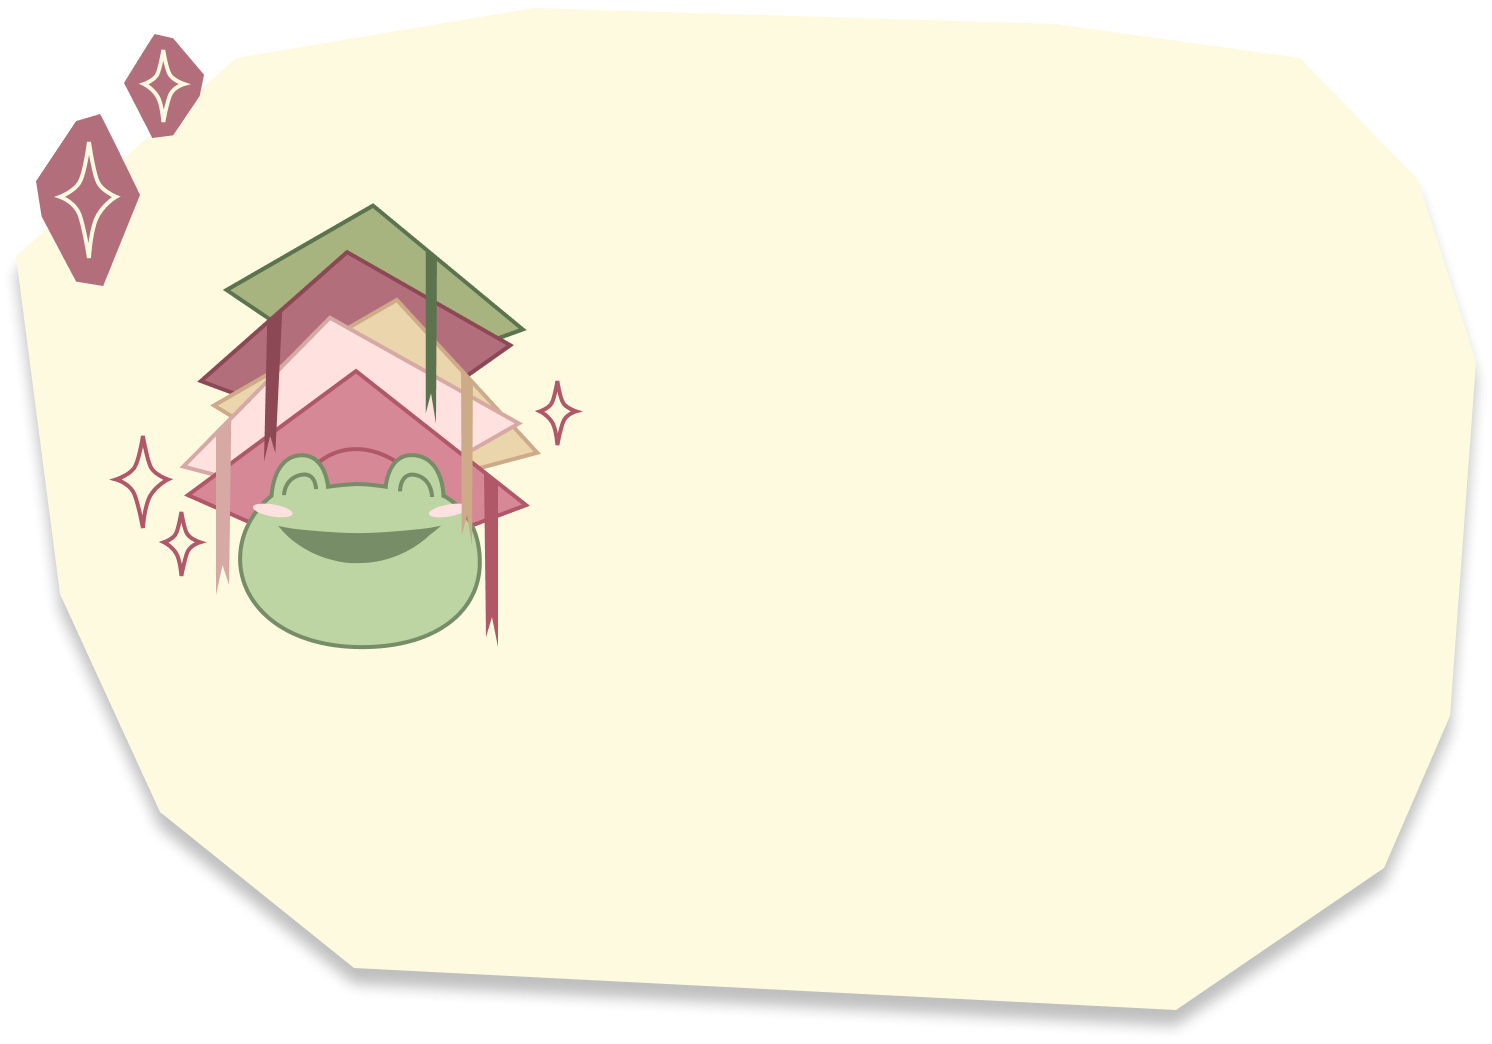
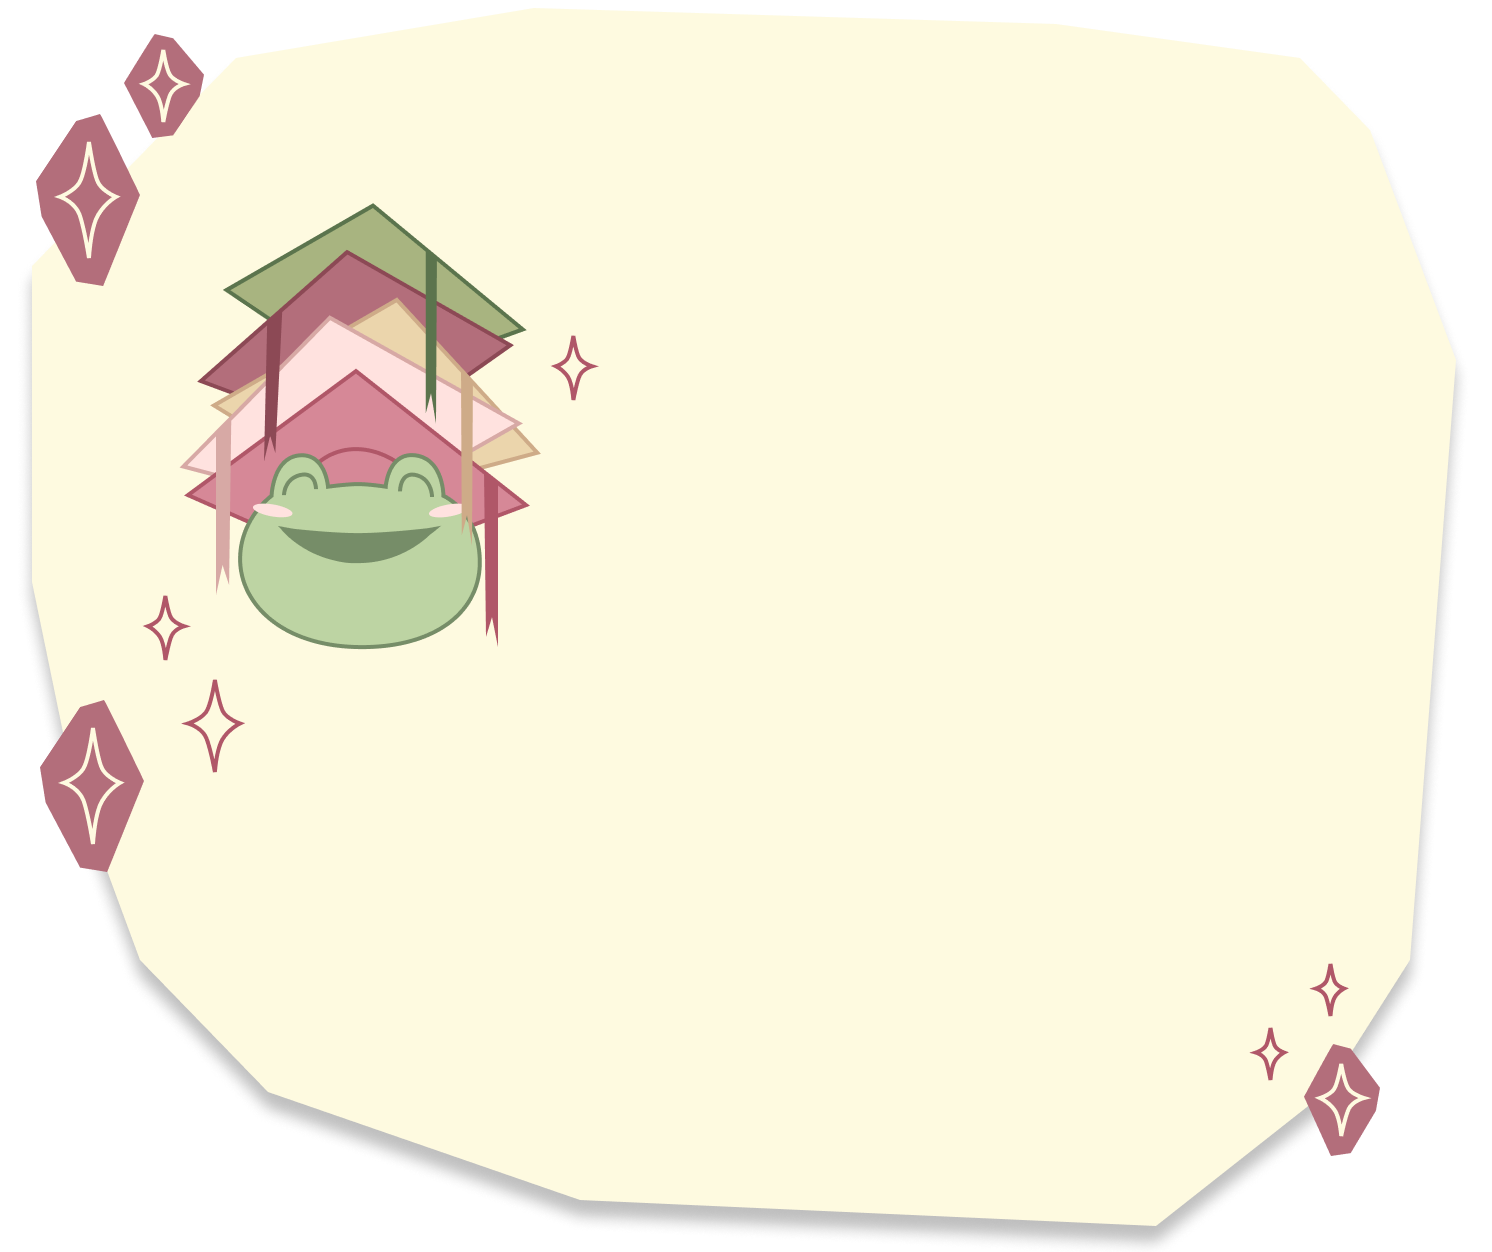
fix version mobile

diff --git a/src/app/_components/Formation.jsx b/src/app/_components/Formation.jsx
@@ -83,12 +83,12 @@ export function Formation() {
 
                  <div className='flex flex-col justify-center items-center h-280 -mt-170 '>
 
-                    <div className='sticky flex z-0 items-end justify-end top-40 md:top-45 mb-5 bg-[url(/media/formation-frog/form6xs2.png)] lg:bg-[url(/media/formation-frog/form6xl.png)] bg-center bg-no-repeat bg-contain p-15 sm:mr-4 sm:ml-4'>
-                        <div className='text-center flex flex-col justify-center items-center ml-30 lg:ml-50'>
-                            <h2 className='text-lg text-center text-[#763c48]'>À l'écoute d'opportunités dans le développement Front-End !</h2>
-                            <h3>Retrouvez mon CV juste ici :</h3>
+                    <div className='sticky flex z-0 items-end justify-end top-40 md:top-45 mb-5 bg-[url(/media/formation-frog/form6xs2.png)] lg:bg-[url(/media/formation-frog/form6xl.png)] bg-center bg-no-repeat bg-contain p-6 md:p-15'>
+                        <div className='text-center flex flex-col justify-center items-center ml-26 lg:ml-50'>
+                            <h2 className=' text-sm md:text-lg text-center text-[#763c48]'>À l'écoute d'opportunités dans le développement Front-End !</h2>
+                            <h3 className='text-xs'>Retrouvez mon CV juste ici :</h3>
                             <Link href='/media/cv/CV.png' target='_blank' >
-                                <svg viewBox="0 0 24 24" fill="none" xmlns="http://www.w3.org/2000/svg" className='w-20'>
+                                <svg viewBox="0 0 24 24" fill="none" xmlns="http://www.w3.org/2000/svg" className='w-15 md:w-20'>
                                     <g id="SVGRepo_bgCarrier" strokeWidth="0"></g>
                                     <g id="SVGRepo_tracerCarrier" strokeLinecap="round" strokeLinejoin="round"></g>
                                     <g id="SVGRepo_iconCarrier"> 

diff --git a/src/app/_components/Domaines.jsx b/src/app/_components/Domaines.jsx
@@ -12,9 +12,9 @@ export default function Domaine() {
                 <h2 className='m-10 text-3xl md:text-5xl'>Mes domaines de prédilection</h2>
             </div>
 
-            <div className='flex flex-col md:flex-row text-[#B36E7B] p-5 md:pr-60 md:pl-60'>
+            <div className='flex flex-col md:flex-row text-[#B36E7B] p-5 pr-10 pl-10 lg:pr-60 lg:pl-60'>
 
-                <div className='flip-domaine relative z-6 m-4'>
+                <div className='flip-domaine relative z-6 m-2 md:m-4'>
                     <div className='flip-domaine-inner'>
                         <div className='front-doodle bento-beige flex flex-col justify-center items-center'>
                             <Image src="/media/domaines/dev.png" className='m-3' height={80} alt='illu dev'/>
@@ -30,7 +30,7 @@ export default function Domaine() {
                     </div>   
                 </div>
                 
-                <div className='flip-domaine relative z-6 m-4'>
+                <div className='flip-domaine relative z-6 m-2 md:m-4'>
                     <div className='flip-domaine-inner'>
                         <div className='front-doodle bento-beige flex flex-col justify-center items-center'>
                             <Image src="/media/domaines/design.png" className='m-3' height={80} alt='illu design'/>
@@ -44,7 +44,7 @@ export default function Domaine() {
                     </div>   
                 </div>
 
-                <div className='flip-domaine relative z-6 m-4'>
+                <div className='flip-domaine relative z-6 m-2 md:m-4'>
                     <div className='flip-domaine-inner'>
                         <div className='front-doodle bento-beige flex flex-col justify-center items-center'>
                             <Image src="/media/domaines/illu.png" className='m-3' height={80} alt='illu design'/>

diff --git a/src/app/globals.css b/src/app/globals.css
@@ -11,6 +11,7 @@ body {
   background: var(--background);
   color: var(--foreground);
   font-family: Arial, Helvetica, sans-serif;
+  overflow: hidden;
 }
 
 h1, button {
